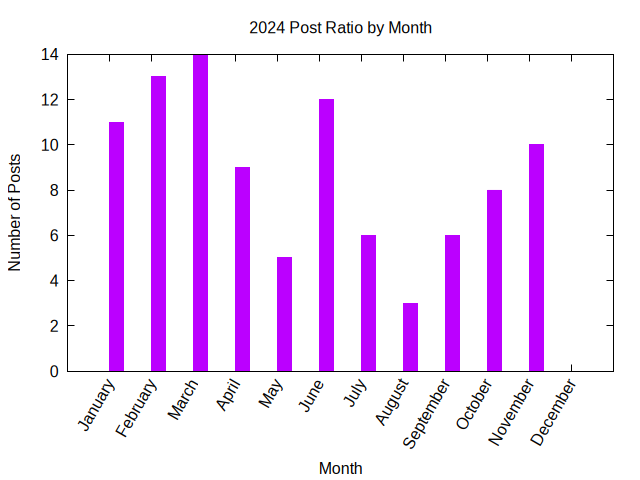
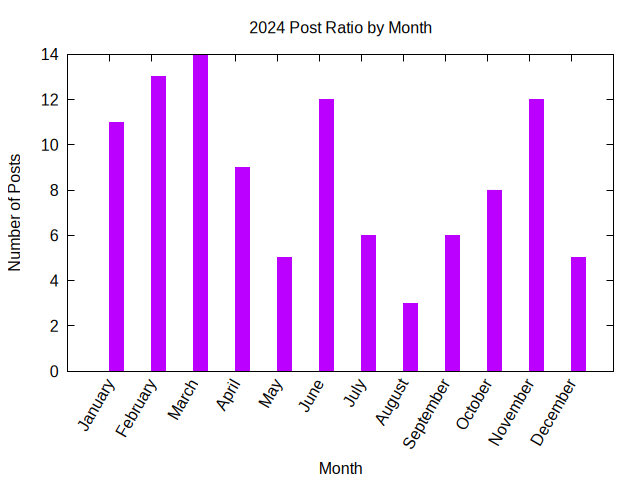
Update stats

Changed region(s): [[0.875, 0.5312, 0.9375, 0.7812], [0.8125, 0.1875, 0.875, 0.3125]]

diff --git a/_includes/stats/2024.md b/_includes/stats/2024.md
@@ -1,41 +1,41 @@
 <a name="2024" />
-## 2024 (work in progress)
+## 2024 
 
-**97 total posts** have been written on 2024.
-There have been *31 different tags* used, the most
+**104 total posts** have been written on 2024.
+There have been *32 different tags* used, the most
 popular being (sorted by number of posts):
  
-- *perl* (59 posts)  
-- *raku* (42 posts)  
-- *perlweeklychallenge* (39 posts)  
-- *python* (38 posts)  
-- *java* (36 posts)  
-- *planet-postgresql-org* (27 posts)  
-- *postgresql* (27 posts)  
-- *linux* (4 posts)  
-- *oracle* (3 posts)  
+- *perl* (62 posts)  
+- *raku* (44 posts)  
+- *perlweeklychallenge* (41 posts)  
+- *python* (40 posts)  
+- *java* (38 posts)  
+- *postgresql* (28 posts)  
+- *planet-postgresql-org* (28 posts)  
+- *linux* (5 posts)  
+- *oracle* (4 posts)  
 - *mojolicious* (3 posts)  
-- *pgagroal* (2 posts)  
-- *pljava* (2 posts)  
 - *emacs* (2 posts)  
-- *zammad* (1 posts)  
-- *nginx* (1 posts)  
-- *kubuntu* (1 posts)  
-- *llvm* (1 posts)  
-- *sqlite* (1 posts)  
-- *privacy* (1 posts)  
-- *clang* (1 posts)  
+- *pljava* (2 posts)  
+- *pgagroal* (2 posts)  
+- *ubuntu* (2 posts)  
 - *debian* (1 posts)  
-- *ubuntu* (1 posts)  
-- *zsh* (1 posts)  
-- *dbic* (1 posts)  
-- *ansible* (1 posts)  
-- *docker* (1 posts)  
+- *sqlite* (1 posts)  
 - *distzilla* (1 posts)  
-- *shibboleth* (1 posts)  
+- *llvm* (1 posts)  
+- *pgenv* (1 posts)  
+- *ansible* (1 posts)  
+- *zsh* (1 posts)  
+- *perl-weekly-challenge* (1 posts)  
+- *nginx* (1 posts)  
 - *sqlite3* (1 posts)  
-- *dbiclass* (1 posts)  
-- *pgenv* (1 posts).<br/>
+- *docker* (1 posts)  
+- *shibboleth* (1 posts)  
+- *zammad* (1 posts)  
+- *dbic* (1 posts)  
+- *privacy* (1 posts)  
+- *kubuntu* (1 posts)  
+- *clang* (1 posts).<br/>
 <br/>
 The following is the overall 2024 post ratio by month:
 <br/>
@@ -54,7 +54,7 @@ The following is the overall 2024 post ratio by tag (showing max 30 tags):
 
 <div align="right">
 <small>
-Last generated on 2024-11-25 at 17:47
+Last generated on 2025-01-16 at 17:11
 </small>
 </div>
 

diff --git a/_includes/stats/2025.md b/_includes/stats/2025.md
@@ -1,0 +1,38 @@
+<a name="2025" />
+## 2025 (work in progress)
+
+**3 total posts** have been written on 2025.
+There have been *8 different tags* used, the most
+popular being (sorted by number of posts):
+ 
+- *python* (2 posts)  
+- *perl* (2 posts)  
+- *java* (2 posts)  
+- *perlweeklychallenge* (2 posts)  
+- *raku* (2 posts)  
+- *pgagroal* (1 posts)  
+- *planet-postgresql-org* (1 posts)  
+- *postgresql* (1 posts).<br/>
+<br/>
+The following is the overall 2025 post ratio by month:
+<br/>
+    <center>
+      <img src="/images/stats/2025-months.png" alt="2025 post ratio per month" />
+    </center>
+<br/>
+
+<br/>
+The following is the overall 2025 post ratio by tag (showing max 30 tags):
+<br/>
+  <center>
+    <img src="/images/stats/2025-tags.png" alt="2025 post ratio per tag" />
+  </center>
+<br/>
+
+<div align="right">
+<small>
+Last generated on 2025-01-16 at 17:11
+</small>
+</div>
+
+<br/>

diff --git a/_includes/stats/quick-links.md b/_includes/stats/quick-links.md
@@ -2,6 +2,24 @@
 Select one of the following links to quickly jump to the
 corresponding year:
  <br/> 
-- years 2000 - 2009: [2008](#2008), [2009](#2009)
-- years 2010 - 2019: [2010](#2010), [2011](#2011), [2012](#2012), [2013](#2013), [2014](#2014), [2015](#2015), [2016](#2016), [2017](#2017), [2018](#2018), [2019](#2019)
-- years 2020 - 2029: [2020](#2020), [2021](#2021), [2022](#2022), [2023](#2023) [2024](#2024)
+- years 2000 - 2009:
+     - [2008](#2008)
+	 - [2009](#2009)
+- years 2010 - 2019:
+     - [2010](#2010)
+	 - [2011](#2011)
+	 - [2012](#2012)
+	 - [2013](#2013)
+	 - [2014](#2014)
+	 - [2015](#2015)
+	 - [2016](#2016)
+	 - [2017](#2017)
+	 - [2018](#2018)
+	 - [2019](#2019)
+- years 2020 - 2029:
+     - [2020](#2020)
+	 - [2021](#2021)
+	 - [2022](#2022)
+	 - [2023](#2023)
+	 - [2024](#2024)
+	 - [2025](#2025)

diff --git a/stats.md b/stats.md
@@ -20,6 +20,7 @@ I've also an [account on Gitlab](https://gitlab.com/{{ site.footer-links.gitlab 
 
 # Statistic Data about this *Blog*
 {% include stats/quick-links.md %}
+{% include stats/2025.md %}
 {% include stats/2024.md %}
 {% include stats/2023.md %}
 {% include stats/2022.md %}
